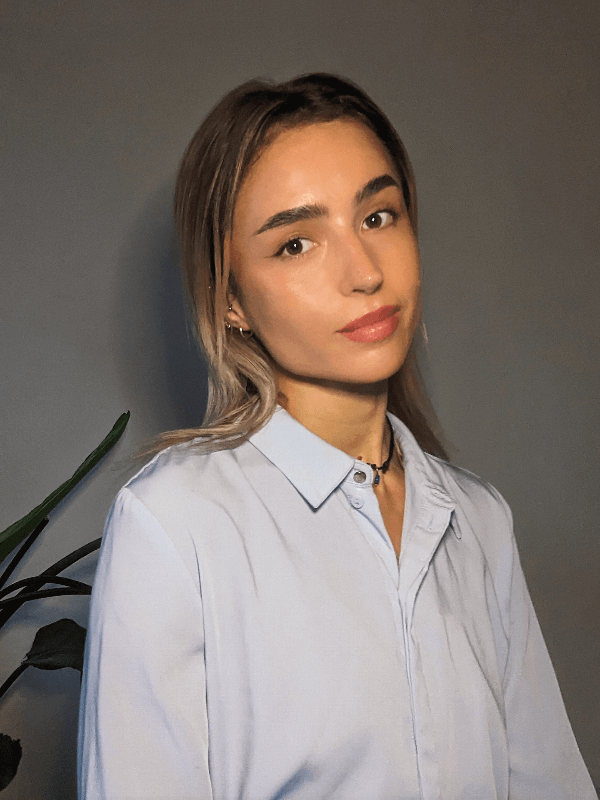
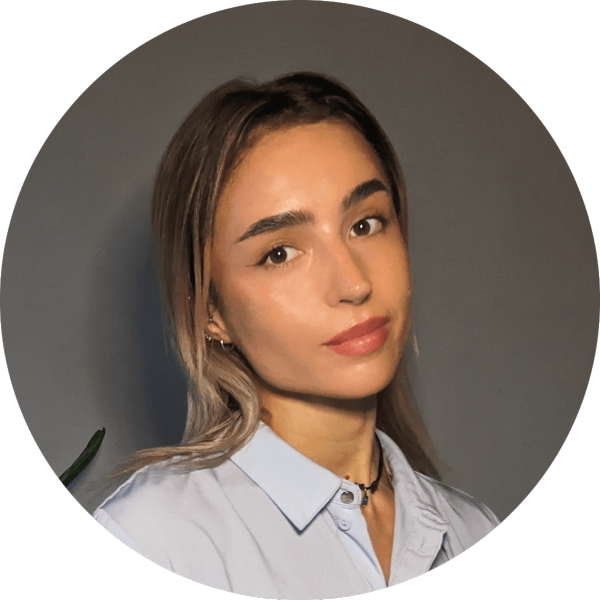
changes

diff --git a/about.html b/about.html
@@ -33,19 +33,25 @@
             </nav>
         </section>
     </header>
-
     <main>
         <section id="profile" class="container">
             <h1>My Process</h1>
-            <picture>
-                <source srcset="/img/profile@1x.png" media="(max-width:767px)">
-                <img src="/img/profile@2x.png" alt="Profile Image">
-            </picture>
-            <h2>My Story</h2>
-            <p>
-                As a UX designer with a passion for crafting intuitive interfaces, I strive to create engaging digital solutions that delight users and drive results. With a background in Fine Arts, I bring a deep understanding of User Interface Aesthetics to my design process, ensuring that every interaction is meaningful and user-centric.
-            </p>
-            <div class="skills-tools-wrapper">
+            <div class="row">
+                <div class="col-md-6">
+                    <picture class="profile-picture">
+                        <source srcset="/img/profile@1x.png" media="(max-width:767px)">
+                        <img src="/img/profile@2x.png" alt="Profile Image" class="rounded-circle">
+                    </picture>
+                </div>
+                <div class="col-md-6">
+                    <h2>My Story</h2>
+                    <p>
+                        As a UX designer with a passion for crafting intuitive interfaces, I strive to create engaging digital solutions that delight users and drive results. With a background in Fine Arts, I bring a deep understanding of User Interface Aesthetics to my design process, ensuring that every interaction is meaningful and user-centric.
+                    </p>
+                    <p>For a detailed overview of my experience and qualifications, please refer to my <a href="files/EStrum2024CV.pdf" target="_blank">CV</a>.</p>
+                </div>
+            </div>
+            <div class="row">
                 <div class="col-md-6">
                     <h2>Skills</h2>
                     <ul>
@@ -66,10 +72,11 @@
                     </ul>
                 </div>
             </div>
-              <p>For a detailed overview of my experience and qualifications, please refer to my <a href="files/EStrum2024CV.pdf" target="_blank">CV</a>.</p>
         </section>
     </main>
-
+    
+    
+    
     <footer>
         <section id="footer">
             <div class="container">

diff --git a/css/style.css b/css/style.css
@@ -284,3 +284,7 @@ a:hover {
   height: auto;
   opacity: 50%
 }
+.profile-picture img {
+max-width: 95%;
+height: auto;
+}
